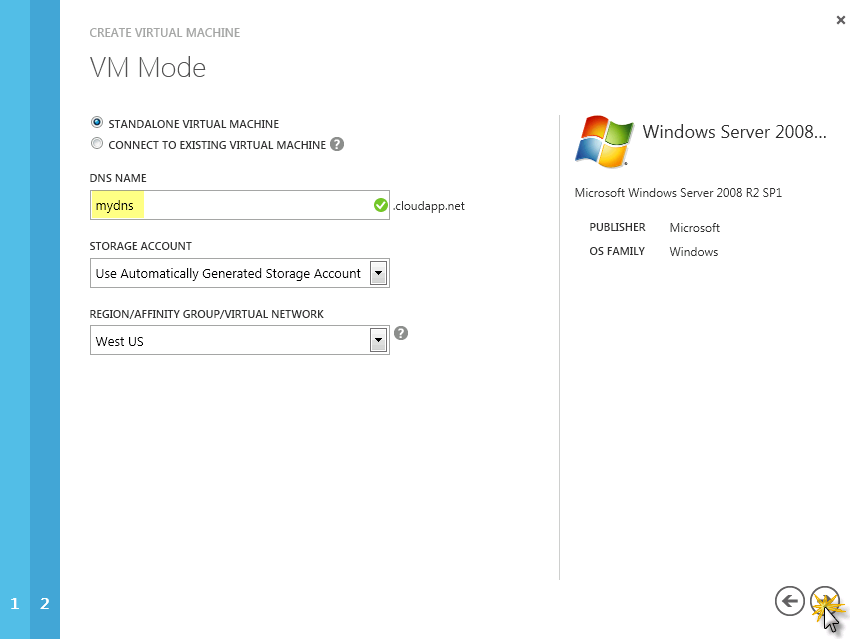
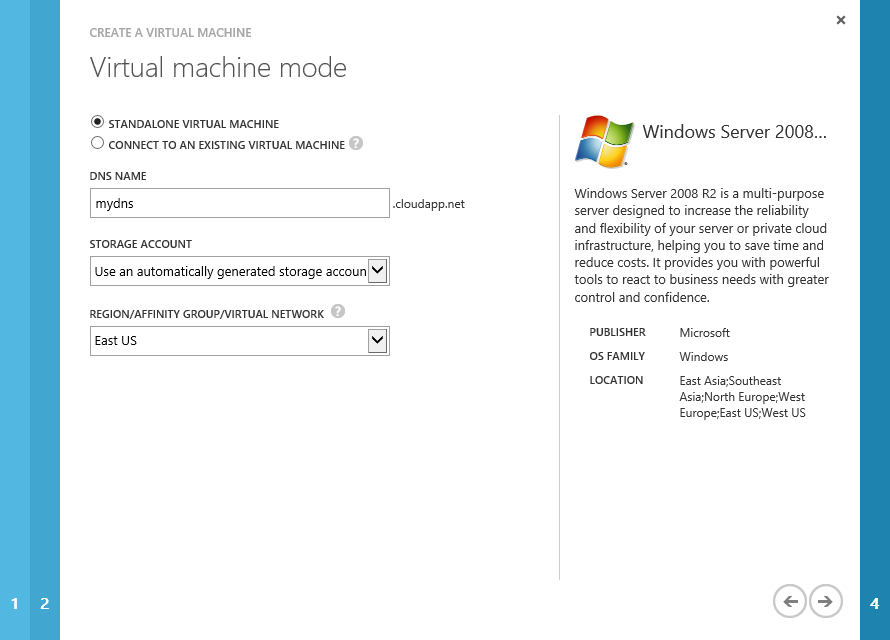
Updated images and HOL steps

diff --git a/HOL.md b/HOL.md
@@ -1,4 +1,4 @@
-<a name="Title" />
+b<a name="Title" />
 # Understanding Virtual Machine Imaging with Capture #
 ---
 
@@ -15,7 +15,7 @@ In this hands-on lab, you will learn how to:
 - Create a new virtual machine
 - Customize and generalize the virtual machine
 - Save the image to the image library
-- Provision New VMs based off of the image
+- Provision New Virtual Machines based off of the image
 
 <a name="Prerequisites" />
 ### Prerequisites ###
@@ -34,7 +34,7 @@ The following exercises make up this hands-on lab:
 1. [Creating a New Virtual Machine](#Exercise1)
 2. [Customize and Generalize the Virtual Machine](#Exercise2)
 3. [Saving an Image in the Image Library](#Exercise3)
-4. [Provision New VMs based off of the Image](#Exercise4)
+4. [Provision New Virtual Machines based off of the Image](#Exercise4)
 
 
 Estimated time to complete this lab: **60 minutes**
@@ -47,7 +47,7 @@ In this exercise you will walk through the steps of provisioning a new virtual m
 <a name="Ex1Task1" />
 #### Task 1: Creating a New Virtual Machine ####
 
-In this task you will use the Quick Create VM creation option to provision a virtual machine to be customized.
+In this task you will use the Quick Create Virtual Machine creation option to provision a virtual machine to be customized.
 
 1. Log in to the Windows Azure portal: https://manage.windowsazure.com using your Microsoft Account.
 
@@ -57,25 +57,25 @@ In this task you will use the Quick Create VM creation option to provision a vir
 
 	_Creating a Virtual Machine from Gallery_
 
-1. In the **VM OS Selection** page, click **Platform Images** and select **Windows Server 2008 R2 SP1**.
+1. In the **Virtual Machine Operation System Selection** page, click **Platform Images** and select **Windows Server 2008 R2 SP1**.
 
 	![Virtual Machine OS Selection](images/virtual-machine-os-selection.png?raw=true "Virtual Machine OS Selection")
 
 	_Virtual Machine OS Selection_
 
-1. In the **Virtual Machine Configuration** page, specify _imgtest1_ for the VM **Name** and set both password boxes. Leave the VM **Size** with _Small_ value.
+1. In the **Virtual Machine Configuration** page, specify _imgtest1_ for the Virtual Machine **Name** and set both password boxes. Leave the Virtual Machine **Size** with _Small_ value.
 
 	![Virtual Machine Configuration Page](images/virtual-machine-configuration-page.png?raw=true "Virtual Machine Configuration Page")
 
 	_Virtual Machine Configuration Page_
 
-1. In the **VM Mode** page, select **Standalone Virtual Machine** and set the **DNS Name**. Leave the remaining fields with their default values.
+1. In the **Virtual Machine Mode** page, select **Standalone Virtual Machine** and set the **DNS Name**. Leave the remaining fields with their default values.
 	
 	![Virtual Machine Mode page](images/virtual-machine-mode-page.png?raw=true "Virtual Machine Mode page")
 
 	_Virtual Machine Mode page_
 
-1. Finally, leave the **VM Options** page with the default values and finish the VM wizard.
+1. Finally, leave the **Virtual Machine Options** page with the default values and finish the Virtual Machine wizard.
 
 1. Wait until your virtual machine is created, you can check its status in the **Virtual Machines** page within Windows Azure Management portal. Then, click your Virtual Machine name to open the **Dashboard**.
 
@@ -83,7 +83,7 @@ In this task you will use the Quick Create VM creation option to provision a vir
 
 	_Virtual Machine Created_
 
-1. In the bottom menu, click **Connect** to download an _.rdp_ file to connect to the VM using Remote Desktop Connection.
+1. In the bottom menu, click **Connect** to download an _.rdp_ file to connect to the Virtual Machine using Remote Desktop Connection.
 
 
 	![Connect](images/connect.png?raw=true)
@@ -119,7 +119,9 @@ In this scenario you are going to configure a script to run when the machine boo
 
 1. Using Windows Explorer, create a folder in the **C:** drive called **EnablePSRemote**.
 
-1. Under **Tools** -> **Folder Options** -> **View**, uncheck **Hide Extensions for Known File Types**.
+1. Go to **Folder and Search options** under **Organize** menu
+
+1. Switch to **View** tab and_EnablePSRemote.ps1_ uncheck **Hide Extensions for Known File Types**.
 
 	![Hide Extensions for Known File Types](images/hide-extensions-for-known-file-types.png?raw=true "Hide Extensions for Known File Types")
 
@@ -229,7 +231,9 @@ In this scenario you are going to configure a script to run when the machine boo
 <a name="Ex2Task4" />
 #### Task 4: Configure a Startup Task for the cmd file ####
 
-1. In the **Run** box type _mmc.exe_ and click **OK**.
+1. Go to **Start** and click **Run** 
+
+1. In the **Run** box write _mmc.exe_ and click **OK**.
 
 1. In **File** | **Add/Remove Snap-In**, select **Group Policy Object** and then click **Add**. 
 
@@ -247,7 +251,7 @@ In this scenario you are going to configure a script to run when the machine boo
 
 1. Double Click **Startup** and click **Add**.
 
-1. Add the following to the **script name** box: _c:\EnablePSRemote\taskscheduler.cmd_ and click **OK** twice to exit the dialog.
+1. In the **Script Name** box and the following path: _c:\EnablePSRemote\taskscheduler.cmd_ and click **OK** twice to exit the dialog.
 
 	![configuretaskscheduler](images/configuretaskscheduler.png?raw=true)
 
@@ -256,11 +260,13 @@ In this scenario you are going to configure a script to run when the machine boo
 <a name="Ex2Task5" />
 #### Task 5: Generalize the Machine with SysPrep ####
 
-In this step we will run sysprep to generalize the image which will allow multiple virtual machines to be created off it is all having the same customized settings (remote PowerShell enabled).
+In this step we will run sysprep to generalize the image. It will allow multiple virtual machines to be created having the same customized settings (remote PowerShell enabled).
 
-1. In **Start** | **Run** Box Type _c:\Windows\System32\sysprep\sysprep.exe_ and press Enter.
+1. Go to **Start** and click **Run** 
 
-2. Select **Generalize**, change **Shutdown** Options to _Shutdown_ and click **OK**.
+1. In the **Run** box write _c:\Windows\System32\sysprep\sysprep.exe_ and press Enter.
+
+2. In the **System Cleanup Action** select **Generalize** checkbox and in the **Shutdown Options** select **Shutdown** and click **OK**.
 
 	![sysprep](images/sysprep.png?raw=true "sysprep")
 
@@ -271,14 +277,14 @@ In this step we will run sysprep to generalize the image which will allow multip
 
 In this exercise you are going to use the capture feature of Windows Azure IaaS to create a new image based off of an existing virtual machine (the previously created one).
 
->**Note:** Before proceeding, ensure the **imgtest1** VM is off. 
+>**Note:** Before proceeding, ensure the **imgtest1** Virtual Machine is off. Wait until the sysprep finishes and turns off the Virtual Machine
 
 <a name="Ex3Task1" />
 #### Task 1: Saving an Image in the Image Library ####
 
 1. Open the Windows Azure Portal and click **Virtual Machines**.
 
-1. Click the **imgtest1** Virtual Machine to open its **Dashboard**.
+1. Select the Virtual Machine you prepared in the previous exercise.
 
 	![Opening Virtual Machine Dashboard](images/opening-virtual-machine-dashboard.png?raw=true "Opening Virtual Machine Dashboard")
 
@@ -290,7 +296,7 @@ In this exercise you are going to use the capture feature of Windows Azure IaaS 
 
 	_Capturing Image_
 
-1. In the **Capture virtual machine** page, set the **Virtual Machine Name** to _remotepsimg_ and select **I have sysprepped the virtual machine**, then store it as an image.
+1. In the **Capture virtual machine** page, set the **Virtual Machine Name** to _remotepsvm1_ and select **I have sysprepped the virtual machine**, then store it as an image.
 
 	![capturedlg](images/capturedlg.png?raw=true)
 
@@ -298,33 +304,46 @@ In this exercise you are going to use the capture feature of Windows Azure IaaS 
 
 
 <a name="Exercise4"></a>
-### Exercise 4: Provision New VMs based on the created Image ###
+### Exercise 4: Provision New Virtual Machines based on the created Image ###
 
 In this exercise you are going to create a new virtual machine using the image you created in exercise 3. 
 
-> **Note:** Before proceeding wait until the **remotepsimg** image finished provisioning (view the status of the **imgtest1** VM). You may have to refresh your browser to see the new image in the create virtual machine dialog.
+> **Note:** Before proceeding wait until the image finished provisioning You can switch to Images tab under Virtual Machines to check the status of the image.
 
 <a name="Ex4Task1" />
-#### Task 1: Create a new VM using a base-image ####
+#### Task 1: Create a new Virtual Machine using a base-image ####
 
 1. Log in to the Windows Azure Portal:  https://manage.windowsazure.com.
 
-2. Click **New** | **Virtual Machine** | **Quick Create**.
-
-1. Set the **DNS Name** to _remotepsimg_ and select the **Image** you created previously (e.g. _remotepsimg_).
-
-1. Then, specify a **password** for the Administrator login and click **Create Virtual Machine**.
-
+1. Click **New** | **Compute** | **Virtual Machine** | **From Gallery**.
 	![createvmfromimage](images/createvmfromimage.png?raw=true)
 
 	_Creating Virtual Machine from Image_
 
-1. Once the Virtual Machine is provisioned, go to its **Dashboard** and click **Connect**. When prompted login with _Administrator_ credentials.
+1. In the **Virtual Machine operating system selection** switch to **MY IMAGES** and select **you-image-name**
 
+	![myimagetab](images/virtualmachineimageselection.png?raw=true)
 
+	_Virtual Machine operating system selection_
+
+1. Set the **Virtual Machine Name** to _remotepsvm1_ and complete the Administrator Password
+
+	![myimagetab](images/virtualmachinename.png?raw=true)
+
+	_Virtual Machine configurtation_
+
+1. Set the **DNS Name** to _remotepsvm1_ and select the **Image** you created previously (e.g. _remotepsvm1_).
+
+	![myimagetab](images/virtualmachinedns.png?raw=true)
+
+	_Virtual Machine mode_
+
+1. Leave the **Virtual Machine options** with the default value and complete the operation.
+
+1. Once the Virtual Machine is provisioned, click **Connect** at the bottom of the screen. When prompted login with _Administrator_ credentials.
 
 <a name="Ex4Task2" />
-#### Task 2: Create an Endpoint to Allow Traffic to the VM ####
+#### Task 2: Create an Endpoint to Allow Traffic to the Virtual Machine ####
 
 1. Open the Windows Azure Portal from https://manage.windowsazure.com and click **Virtual Machines**.
 
@@ -346,17 +365,19 @@ In this exercise you are going to create a new virtual machine using the image y
 <a name="Ex4Task3" />
 #### Task 3: Connect from a Remote Client using PowerShell ####
 
-1. To connect remotely you will need some information regarding the VM. To obtain this information, you will log in to the Windows Azure Portal and go to your VM's **Dashboard**.
+1. To connect remotely you will need some information regarding the Virtual Machine. To obtain this information, you will log in to the Windows Azure Portal and go to your Virtual Machine's **Dashboard**.
 
-1. In the **Dashboard** page, locate and take note of the Public DNS (i.e. **URL** prefix).
+1. In the **Dashboard** page, locate and take note of the DNS.
 
-	![Obtaining VM information](images/obtaining-vm-information.png?raw=true "Obtaining VM information")
+	![Obtaining VM information](images/obtaining-vm-information.png?raw=true "Obtaining Virtual Machine information")
 
-	_Obtaining VM information_
+	_Obtaining Virtual Machine information_
 
-1. If not already open, open a **Windows PowerShell** console from **Start** | **All Programs** | **Accessories**.
+1. If not already open, Go to Search tab in your machine and in the Search App box type Powershell.
 
-1. Execute the following command to test the VM connection. Update the placeholders with your VMs hostname. 
+1. Open **Windows Powershell** from the result page
+
+1. Execute the following command to test the Virtual Machine connection. Update the placeholders with your Virtual Machines hostname. 
 	
 	<!-- mark:1 -->
 	````PowerShell
@@ -364,7 +385,7 @@ In this exercise you are going to create a new virtual machine using the image y
 
 	````
 
-1. To test that you were successfully connected to the VM, you will run the following commands to see the remote file system. Notice that at the left of your prompt you can see the host name that you are connected to.
+1. To test that you were successfully connected to the Virtual Machine, you will run the following commands to see the remote file system. Notice that at the left of your prompt you can see the host name that you are connected to.
 
 	````CMD
 	cd\
